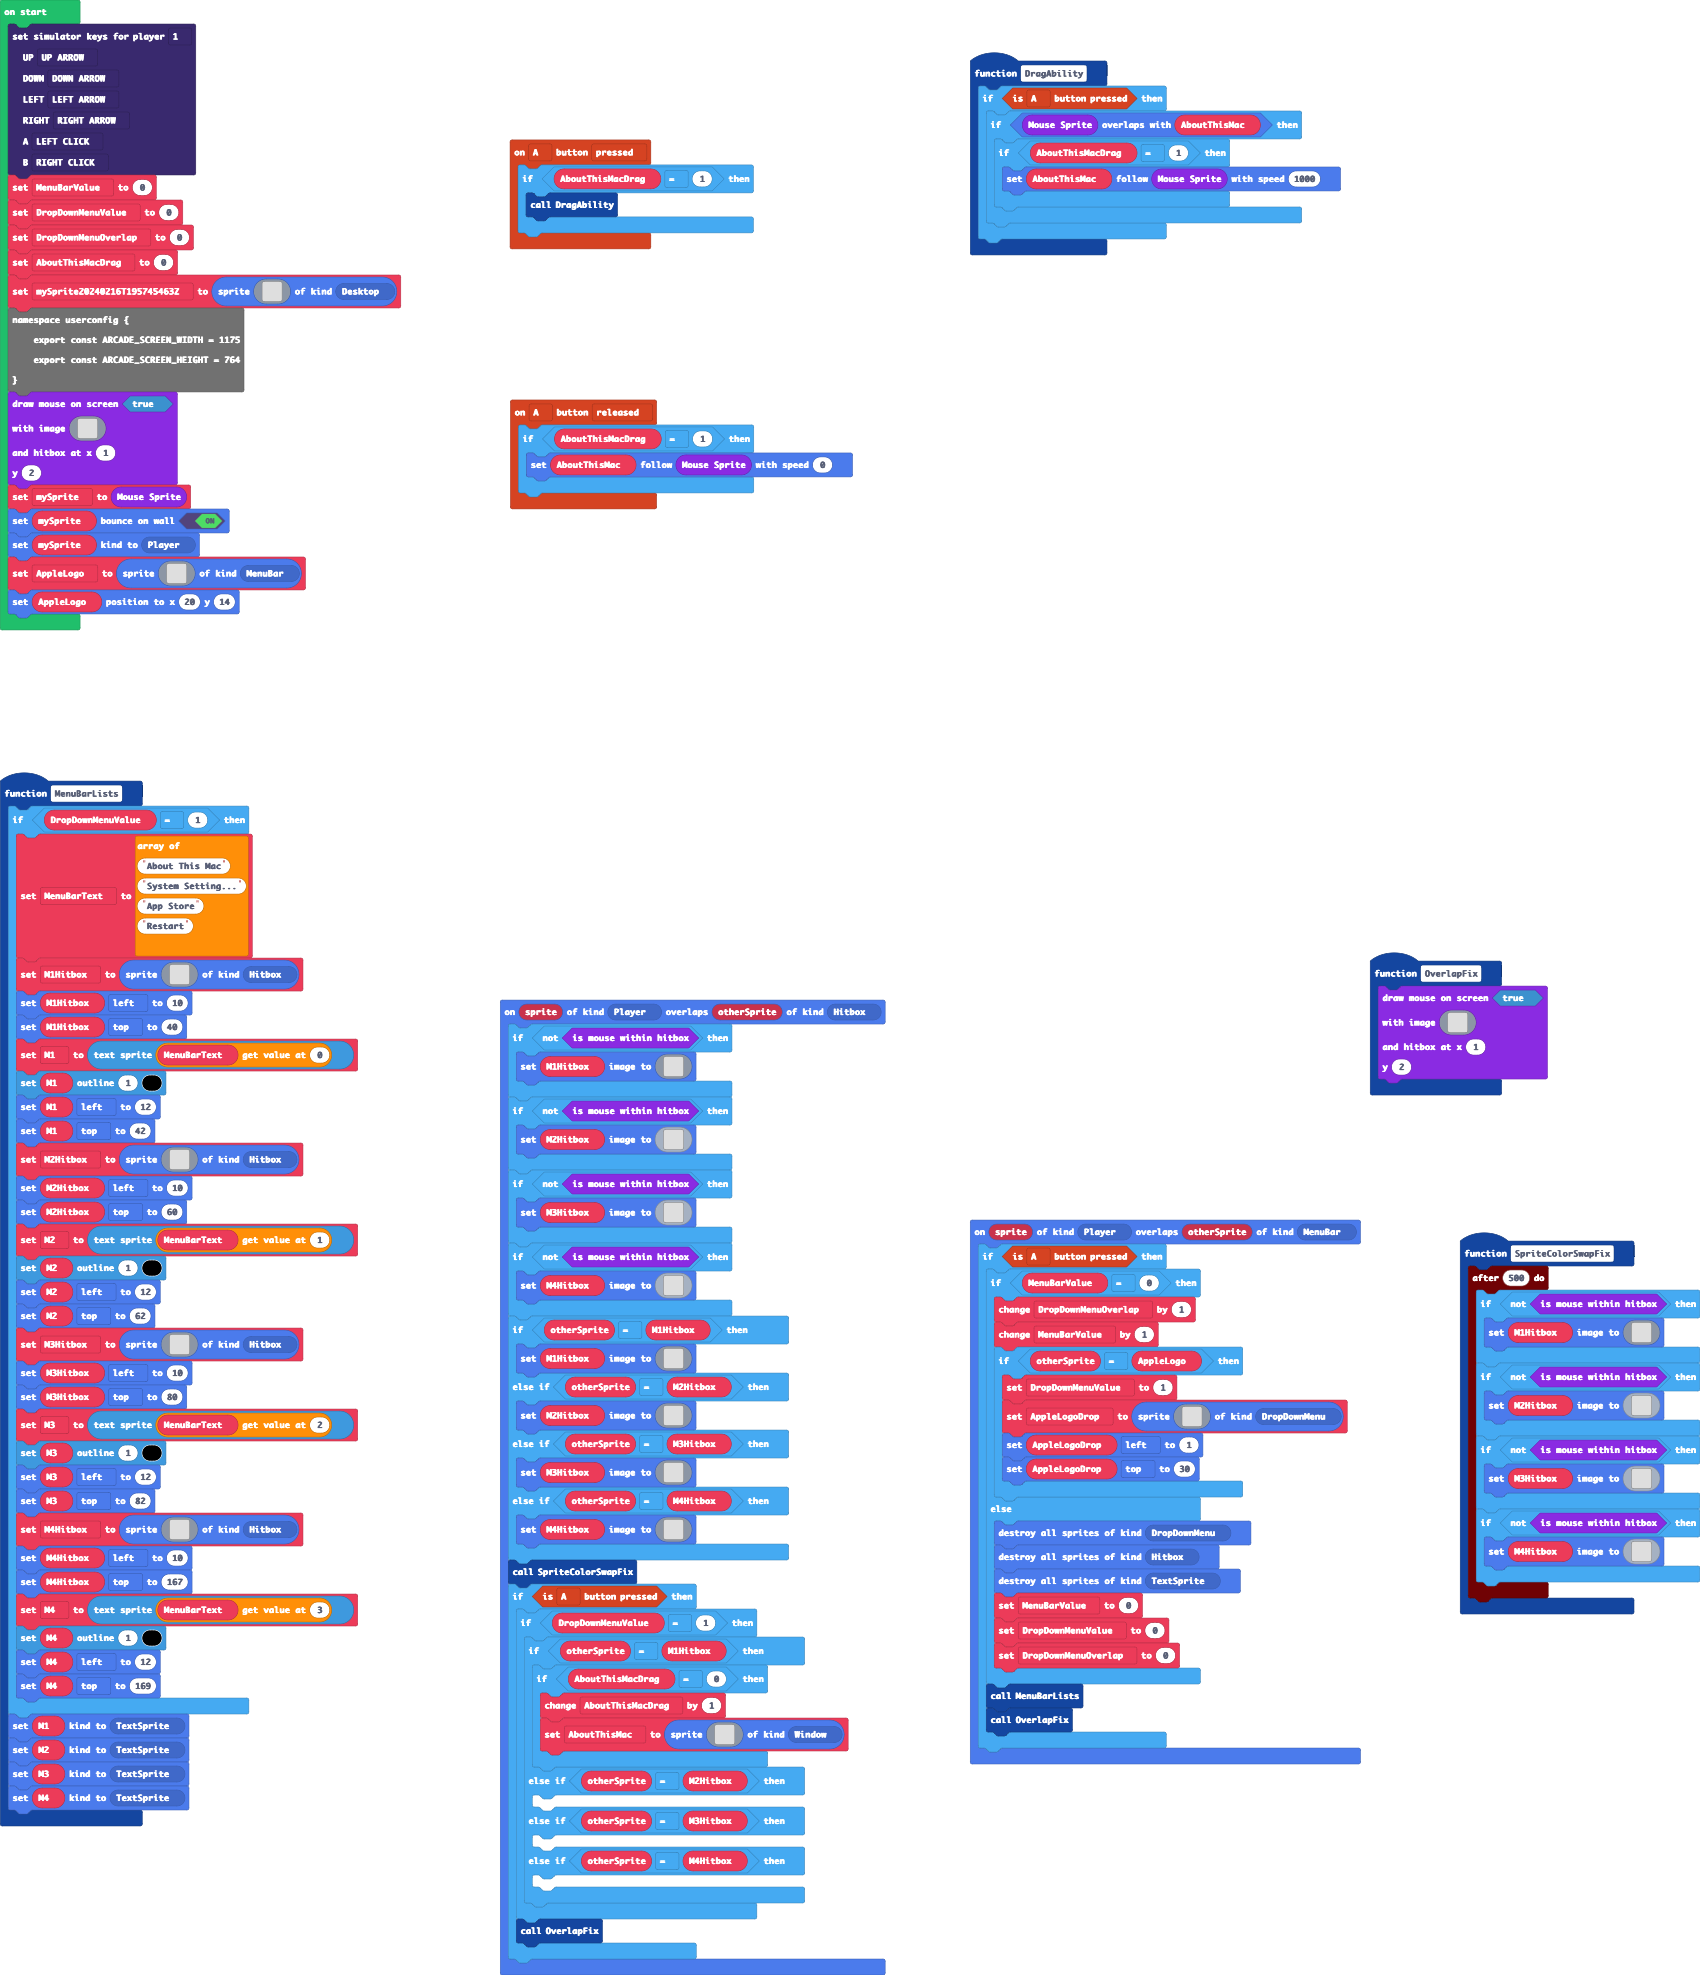
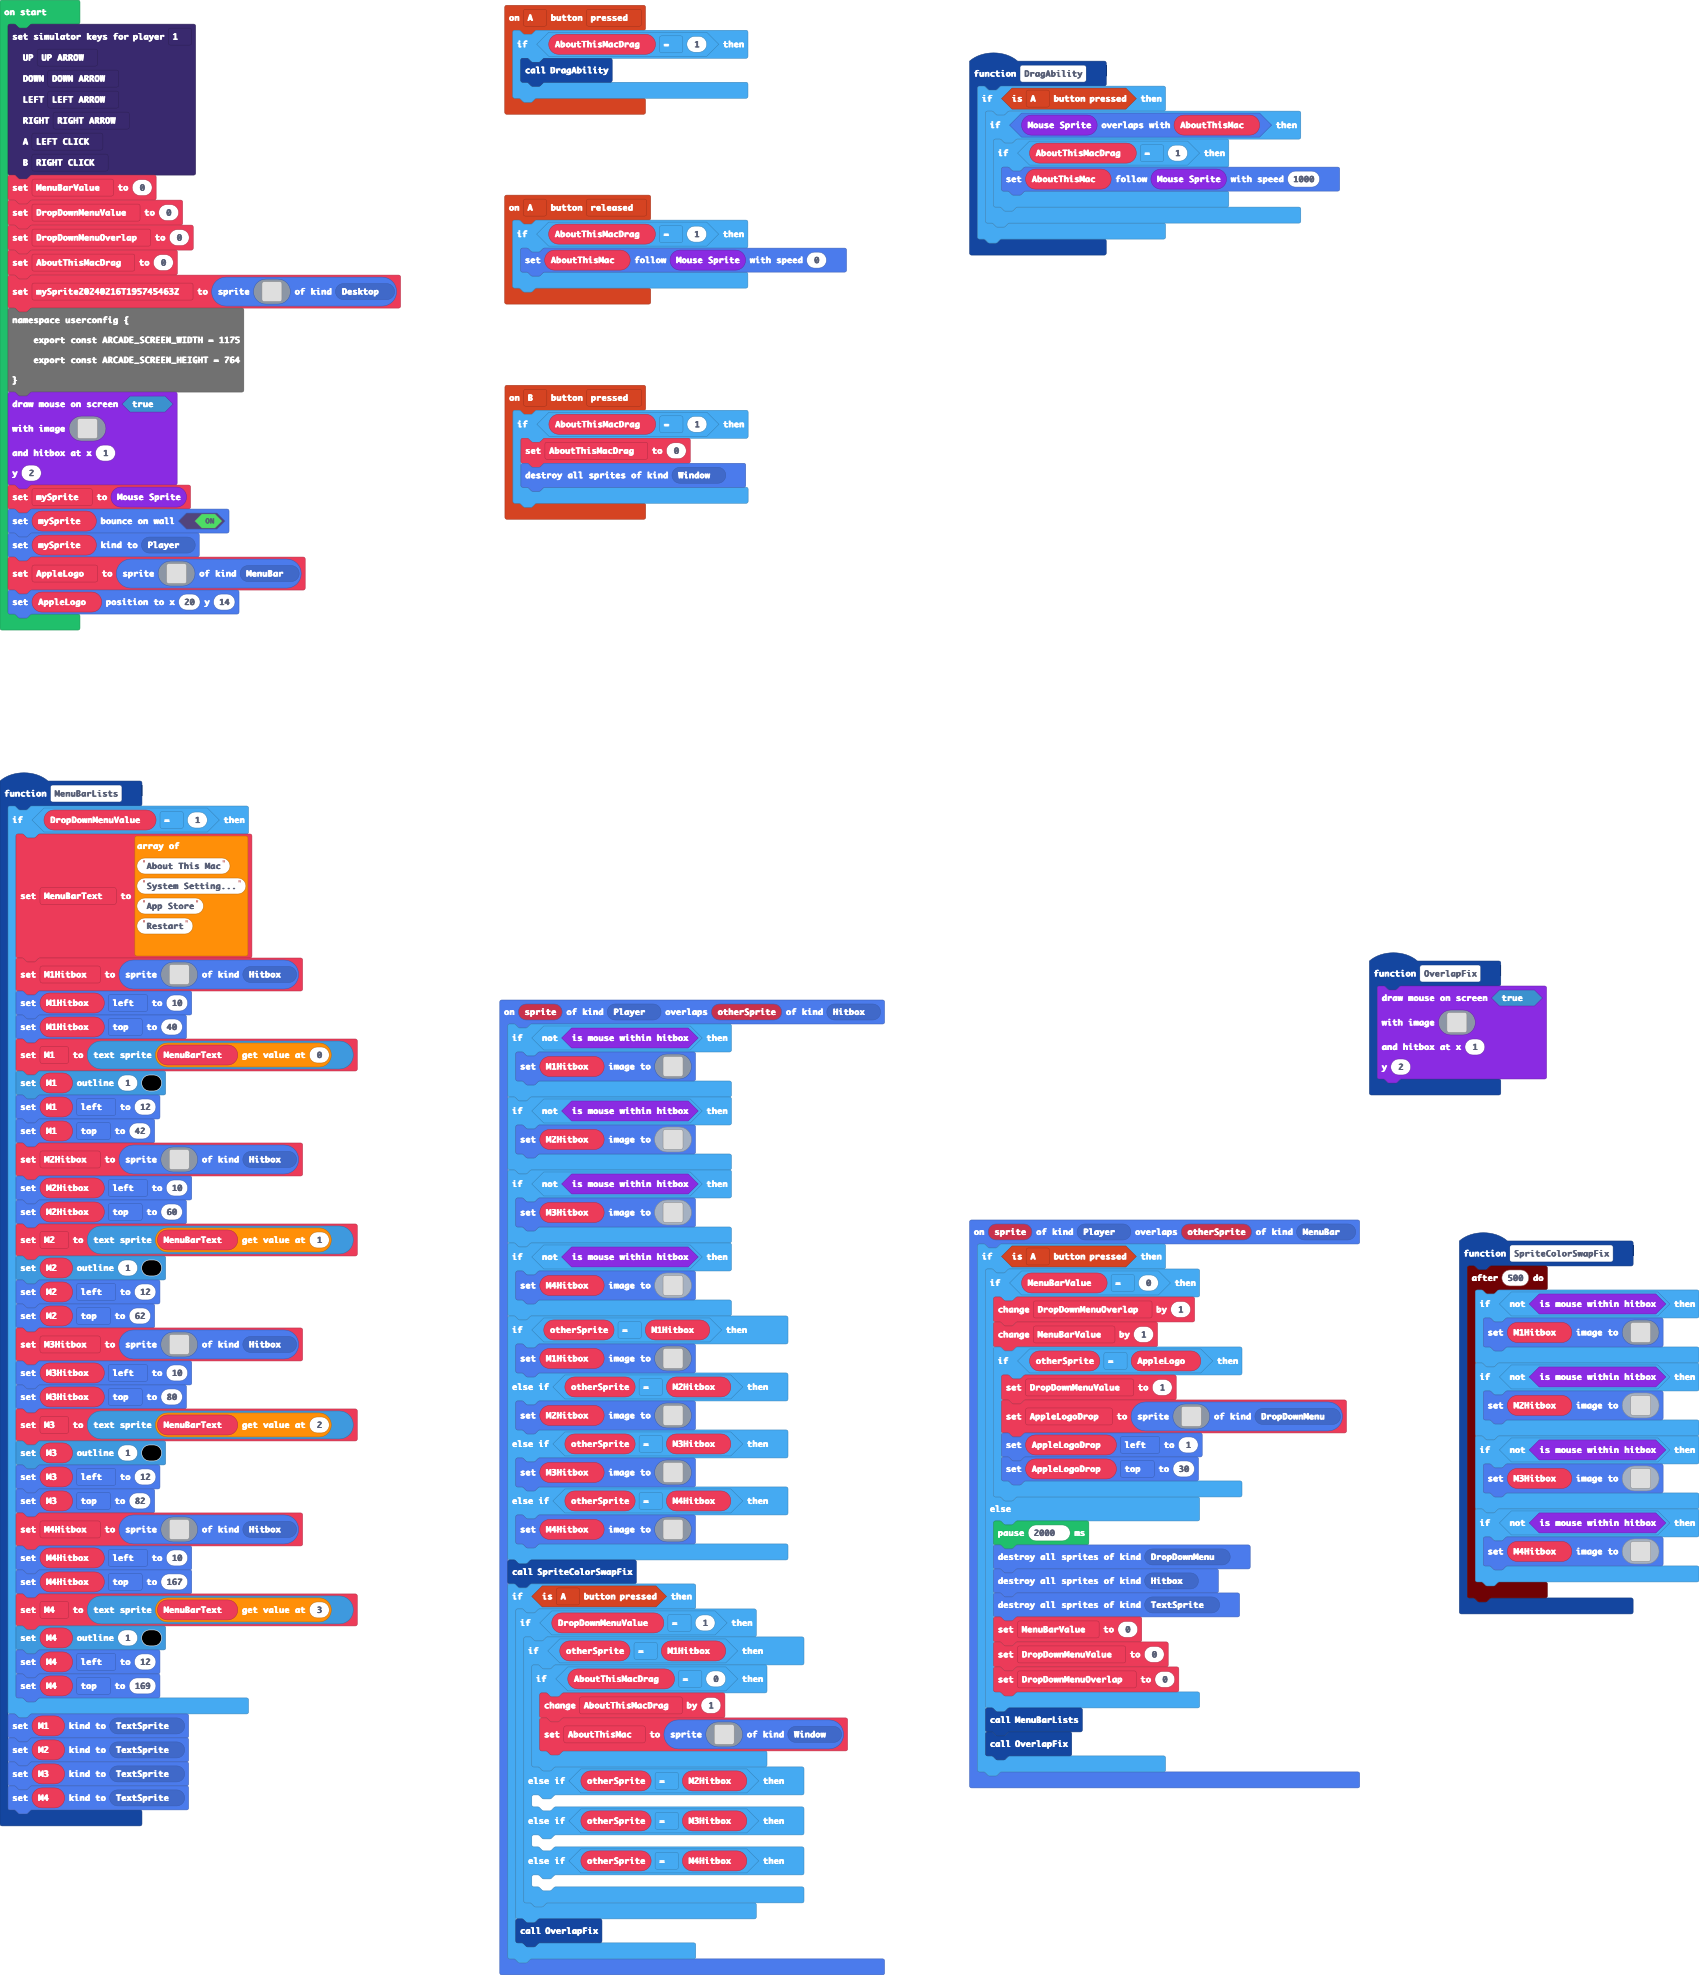
Update main.blocks, main.ts

diff --git a/main.ts b/main.ts
@@ -7,6 +7,12 @@ namespace SpriteKind {
     export const TextSprite = SpriteKind.create()
     export const Window = SpriteKind.create()
 }
+controller.B.onEvent(ControllerButtonEvent.Pressed, function () {
+    if (AboutThisMacDrag == 1) {
+        AboutThisMacDrag = 0
+        sprites.destroyAllSpritesOfKind(SpriteKind.Window)
+    }
+})
 controller.A.onEvent(ControllerButtonEvent.Pressed, function () {
     if (AboutThisMacDrag == 1) {
         DragAbility()
@@ -235,6 +241,7 @@ sprites.onOverlap(SpriteKind.Player, SpriteKind.MenuBar, function (sprite, other
                 AppleLogoDrop.top = 30
             }
         } else {
+            pause(2000)
             sprites.destroyAllSpritesOfKind(SpriteKind.DropDownMenu)
             sprites.destroyAllSpritesOfKind(SpriteKind.Hitbox)
             sprites.destroyAllSpritesOfKind(SpriteKind.TextSprite)
